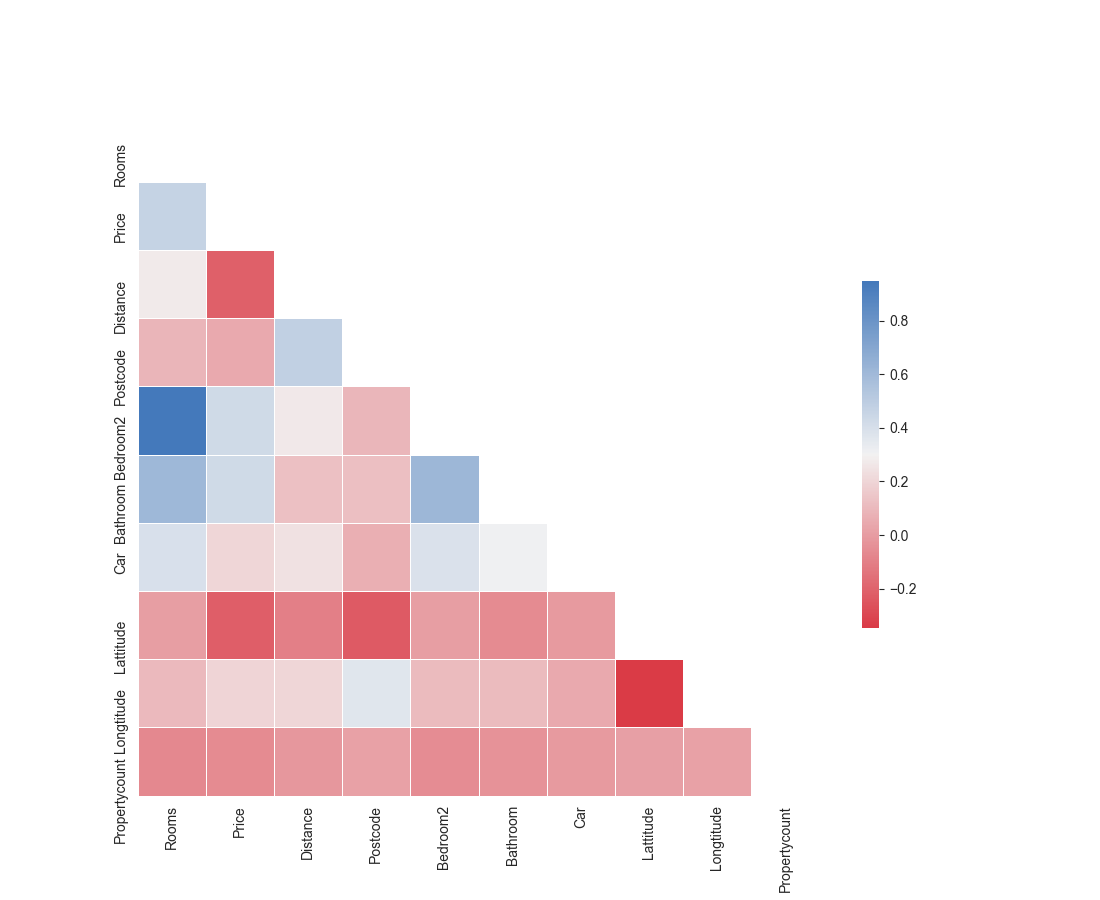
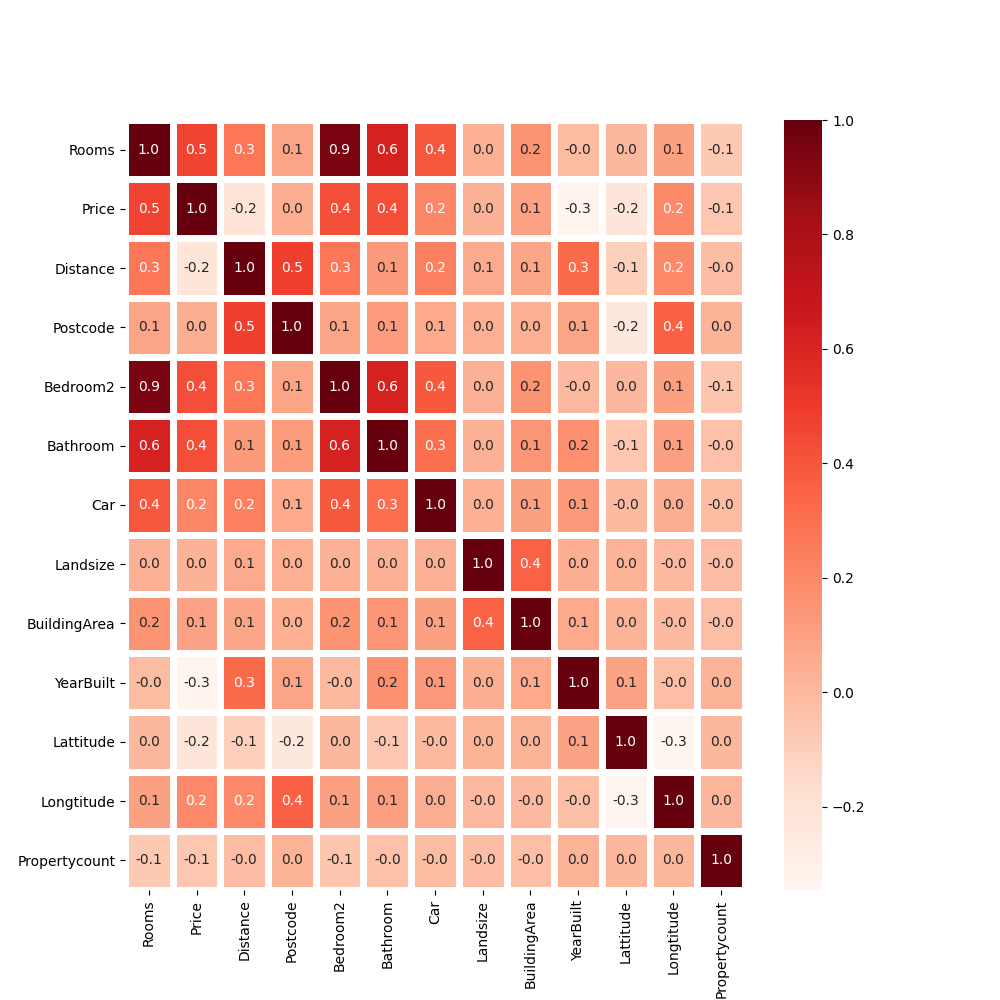
Added new metrics to EDA class

diff --git a/discovery.py b/discovery.py
@@ -7,20 +7,39 @@ class EDA:
     # Import PowerTransformer
     from sklearn.preprocessing import PowerTransformer
 
+
+
     def __init__(self, this_df):
 
 
         print()
         print("****************************************************************")
-        print("EDA | Start")
+        print("@EDA | Start")
         print("****************************************************************")
 
-        print("PRICE: Log transformation to improve skewed data")
+        print('FEATURES: Number of features? %s' % this_df.shape[1])
+        print('ROWS: Number of rows? %s' % this_df.shape[0])
+
+
+        print('\nSAMPLES: Head & Tail')
+        print(this_df.head().append(this_df.tail()))
+
+        print('\nINFO: .info()')
+        print(this_df.info())
+
+        print('\nDESCRIBE: Transpose .describe()')
+        print(this_df.describe().transpose())
+
+        print('\nCORRELATE: Create correlation heatmap')
+        self.correlation_heatmap(this_df)
+
+
+        print("\nPRICE: Log transformation to improve skewed data")
         #   https://campus.datacamp.com/courses/preprocessing-for-machine-learning-in-python/standardizing-data?ex=4
         self.do_log_transformation_using_np(this_df)
 
         print("****************************************************************")
-        print("EDA | End")
+        print("@EDA | End")
         print("****************************************************************")
 
     def do_log_transformation_using_power_transformer(self, this_df):
@@ -52,18 +71,10 @@ class EDA:
 
 
     def correlation_heatmap(self, this_df):
-            # use the pands .corr() function to compute pairwise correlations for the dataframe
-            corr = this_df.corr()
-            # visualise the data with seaborn
-            mask = self.np.triu(self.np.ones_like(corr, dtype=self.np.bool))
-            self.sns.set_style(style='white')
-            f, ax = self.plt.subplots(figsize=(11, 9))
-            cmap = self.sns.diverging_palette(10, 250, as_cmap=True)
-            self.sns.heatmap(corr, mask=mask, cmap=cmap,
-                    square=True,
-                    linewidths=.5, cbar_kws={"shrink": .5}, ax=ax)
-            self.plt.savefig("./Output/Correlation_plot.png")
-            self.plt.show()
+        f, ax = self.plt.subplots(figsize=(10, 10))
+        self.sns.heatmap(this_df.corr(), annot=True, linewidths=5, fmt='.1f', ax=ax, cmap='Reds')
+        self.plt.savefig("./Output/Correlation_plot.png")
+        #self.plt.show()
 
 
     def do_log_transformation_using_np(self, this_df):

diff --git a/cleaning.py b/cleaning.py
@@ -6,7 +6,8 @@ class CleanData:
     # https://stackoverflow.com/questions/20625582/how-to-deal-with-settingwithcopywarning-in-pandas
     pd.options.mode.chained_assignment = None
     import numpy as np
-    from sklearn.preprocessing import OneHotEncoder
+    from sklearn.impute import SimpleImputer
+
 
     def __init__(self, this_df):
 
@@ -68,8 +69,10 @@ class CleanData:
         print("CATEGORISE: Price into high/low binary values")
         self.categorise_price(this_df)
 
-        print("NaNs: Populate NaNs with median values")
-        this_df = self.set_nan_values_to_median_using_price_category(this_df)
+        print("IMPUTE: Populate NaNs with median values")
+        this_df = self.impute_with_median_using_price_category(this_df)
+        #this_df = self.impute_missing_data(this_df)
+
 
         self.this_df = this_df
 
@@ -143,7 +146,9 @@ class CleanData:
         )
 
 
-    def set_nan_values_to_median_using_price_category(self, this_df):
+    def impute_with_median_using_price_category(self, this_df):
+
+        this_df = this_df.reset_index()
 
         # get list of all columns with NaN
         cols = this_df.columns[this_df.isna().any()].tolist()
@@ -155,6 +160,8 @@ class CleanData:
         # Add high and low price
         cols.append("high_price")
         cols.append("low_price")
+
+        print(cols)
 
         # filter for these columns into a new dataframe
         df_with_NaNs = this_df[cols]
@@ -171,6 +178,34 @@ class CleanData:
         this_df = self.pd.concat([this_df.drop(cols, axis=1), df_with_NaNs], axis=1)
 
         return this_df
+
+
+
+    def impute_missing_data(self, this_df):
+        #   https://campus.datacamp.com/courses/supervised-learning-with-scikit-learn/preprocessing-and-pipelines?ex=5
+
+        this_df = this_df.reset_index()
+
+        # get list of all columns with NaN
+        cols = this_df.columns[this_df.isna().any()].tolist()
+
+        # remove latitude and longitude
+        cols.remove("Lattitude")
+        cols.remove("Longtitude")
+
+        # filter for these columns into a new dataframe
+        df_with_NaNs = this_df[cols]
+
+        imp = self.SimpleImputer(missing_values=self.np.nan, strategy='mean')
+        imp.fit(df_with_NaNs)
+        new_df = self.pd.DataFrame(imp.transform(df_with_NaNs), columns=cols)
+
+        this_df = this_df.drop(cols, axis=1)
+
+        this_df = self.pd.concat([this_df, new_df], axis=1)
+
+        return this_df
+
 
     def return_df(self):
         return self.this_df

diff --git a/main.py b/main.py
@@ -4,9 +4,6 @@ import discovery
 import preprocessing
 import regression
 
-
-import pandas as pd
-
 choose_data = int(input("Press 1 to choose local data already downloaded OR press 2 to download latest data from Kaggle(requires an API Token)?"))
 
 if choose_data == 1:
@@ -21,8 +18,8 @@ df = fh.return_df()
 
 discovery.EDA(df)
 
-class_cleaning = cleaning.CleanData(df)
-df = class_cleaning.return_df()
+data_cleaning = cleaning.CleanData(df)
+df = data_cleaning.return_df()
 
 
 pre_processing = preprocessing.Encode(df)
@@ -30,6 +27,4 @@ df = pre_processing.return_df()
 
 
 regression.Linear(df)
-
-
 
